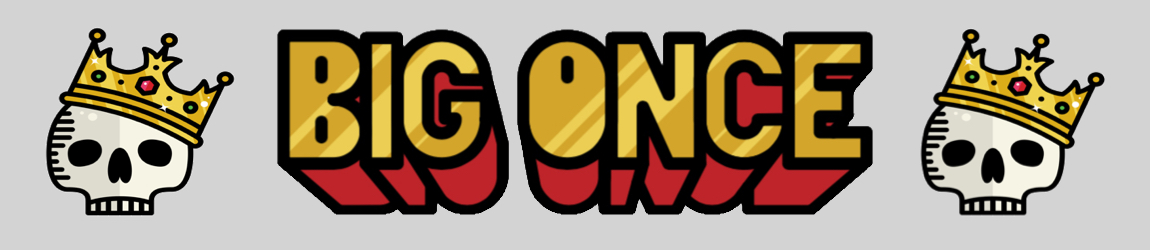
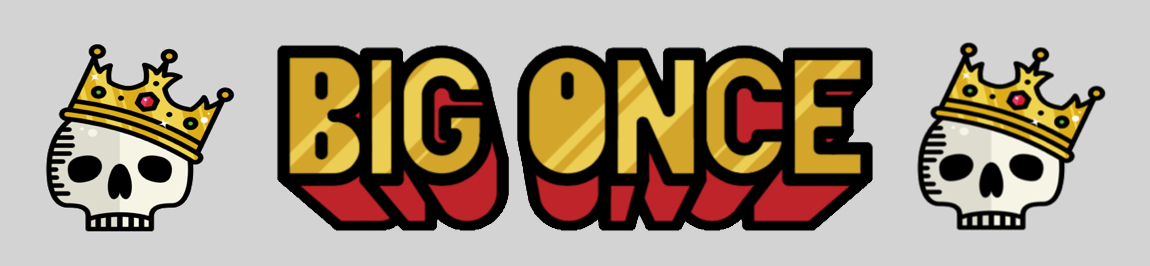
responsive changes.

Changed region(s): [[0.2435, 0.112, 0.7609, 0.868], [0.0304, 0.112, 0.213, 0.896], [0.7913, 0.112, 0.9739, 0.868]]

diff --git a/index.html b/index.html
@@ -44,29 +44,23 @@
         <h1>VIDEO</h1>
       </div>
 
-      <div class="youtube-top">
+      <div class="video-container">
 
-        <div class="video-content-1">
-          <span><iframe width="598" height="315" src="https://www.youtube.com/embed/gghVoRX-sn0?rel=0" frameborder="0" allow="autoplay; encrypted-media" allowfullscreen></iframe></span>
+        <div class="video-responsive">
+          <div class="aspect-ratio-16-9">
+            <iframe src="https://www.youtube.com/embed/gghVoRX-sn0?rel=0" frameborder="0" allow="autoplay; encrypted-media" allowfullscreen></iframe>
+          </div>
+
         </div>
 
-        <div class="video-content-2">
-          <span><iframe src="https://www.facebook.com/plugins/video.php?href=https%3A%2F%2Fwww.facebook.com%2Fdjtrentino%2Fvideos%2F10153921589011137%2F&show_text=0&width=560" width="598" height="315" style="border:none;overflow:hidden" scrolling="no" frameborder="0" allowTransparency="true" allowFullScreen="true"></iframe></span>
+        <div class="video-responsive">
+          <div class="aspect-ratio-16-9">
+            <iframe src="https://www.facebook.com/plugins/video.php?href=https%3A%2F%2Fwww.facebook.com%2Fdjtrentino%2Fvideos%2F10153921589011137%2F&show_text=0&width=560" style="border:none;overflow:hidden" scrolling="no" frameborder="0" allowTransparency="true" allowFullScreen="true"></iframe>
+          </div>
         </div>
 
       </div>
-
-<!--Second row of youtube videos-->
-      <!--<div class="youtube-bottom">
-        <div class="video-content-1">
-          <span><iframe width="598" height="315" src="https://www.youtube.com/embed/19S7nRTXonU?rel=0" frameborder="0" allow="autoplay; encrypted-media" allowfullscreen></iframe></span>
-        </div>
-
-        <div class="video-content-2">
-          <span><iframe src="https://www.facebook.com/plugins/video.php?href=https%3A%2F%2Fwww.facebook.com%2FBigOnce%2Fvideos%2F10154810257684828%2F&show_text=0&width=380" width="598" height="315" style="border:none;overflow:hidden" scrolling="no" frameborder="0" allowTransparency="true" allowFullScreen="true"></iframe></span>
-        </div>
-      </div>
-    </div>-->
+    </div>
 
     <div class="tourdates">
       <div class="dates-header">
@@ -74,7 +68,7 @@
       </div>
 
       <div class="dates-widget">
-        <span><script charset="utf-8" src="https://widget.bandsintown.com/main.min.js"></script><a class="bit-widget-initializer" data-artist-name="Big Once" data-display-local-dates="false" data-display-past-dates="true" data-auto-style="false" data-text-color="#000000" data-link-color="#2F95DE" data-popup-background-color="#D3D3D3" data-background-color="#D3D3D3" data-display-limit="15" data-link-text-color="#FFFFFF"></a></span>
+        <span><script charset="utf-8" src="https://widget.bandsintown.com/main.min.js"></script><a class="bit-widget-initializer" data-artist-name="Big Once" data-display-local-dates="false" data-display-past-dates="true" data-auto-style="false" data-text-color="#000000" data-link-color="#2F95DE" data-popup-background-color="#FFFFFF" data-background-color="#FFFFFF" data-display-limit="15" data-link-text-color="#FFFFFF"></a></span>
       </div>
 
     <footer>

diff --git a/resources/css/style.css b/resources/css/style.css
@@ -21,14 +21,11 @@ html {
   background-color: #D3D3D3;
 }
 
-/*header styling*/
 
-
-
-/*end header styling*/
-
-/*main logo styling*/
-
+body{
+  width: 70%;
+  margin: 0 auto;
+}
 .social-icons{
   position: fixed;
   right: 1rem;
@@ -39,6 +36,7 @@ html {
   align-items: center;
   width: 3rem;
   height: auto;
+  z-index: 1;
 }
 .social-icons .fa-twitter:hover {
   color: #00aced;
@@ -67,15 +65,13 @@ html {
   color: black;
 }
 
-.main-container {
-  width: 100%;
-  position: center;
-}
 
 .content{
-  width: 1200px;
+  width: 100%;
   margin: auto;
 }
+
+/*main logo styling*/
 
 .main-image{
   padding-top: 50px;
@@ -85,13 +81,13 @@ html {
   justify-content: center;
   margin: 0 auto;
   top: 20px;
-  padding-left: 4rem;
+
 }
 
 .main-image img {
-  height: 200px;
-  width: 1000px;
-  padding-right: 2.5rem;
+  height: auto;
+  width: 100%;
+  padding-left: 2rem;
 }
 
 /*end main logo styling*/
@@ -99,7 +95,7 @@ html {
 /*dividing image styling*/
 
 .section-image img {
-  width: 1200px;
+  width: 100%;
   height: 600px;
 }
 
@@ -115,33 +111,34 @@ h1 {
 /*youtube video section styling*/
 
 
-.youtube-top {
-  display: flex;
-  align-items: center;
-  justify-content: center;
 
+.video-responsive {
+  width: 50%;
+  display: inline-block;
+  height: 56.25%;
+  margin: 0 -1px;
 }
 
-/*youtube bottom styling*/
-/*.youtube-bottom {
-  display: flex;
-  align-items: center;
-  justify-content: center;
-}*?
-
-.video-content-1 {
-  padding-right: .15rem;
+.aspect-ratio-16-9 {
+  width: 100%;
+  padding-top: 56.25%;
+  position: relative;
 }
 
-.video-content-2 {
-  padding-left: .15rem;
+.video-responsive iframe {
+  width: 100%;
+  height: 100%;
+  position: absolute;
+  top: 0;
 }
+
+
 
 /*footer design*/
 
-.dates-widget{
+/*.dates-widget{
   border: 1px black solid;
-}
+}*/
 
 footer {
   display: flex;
